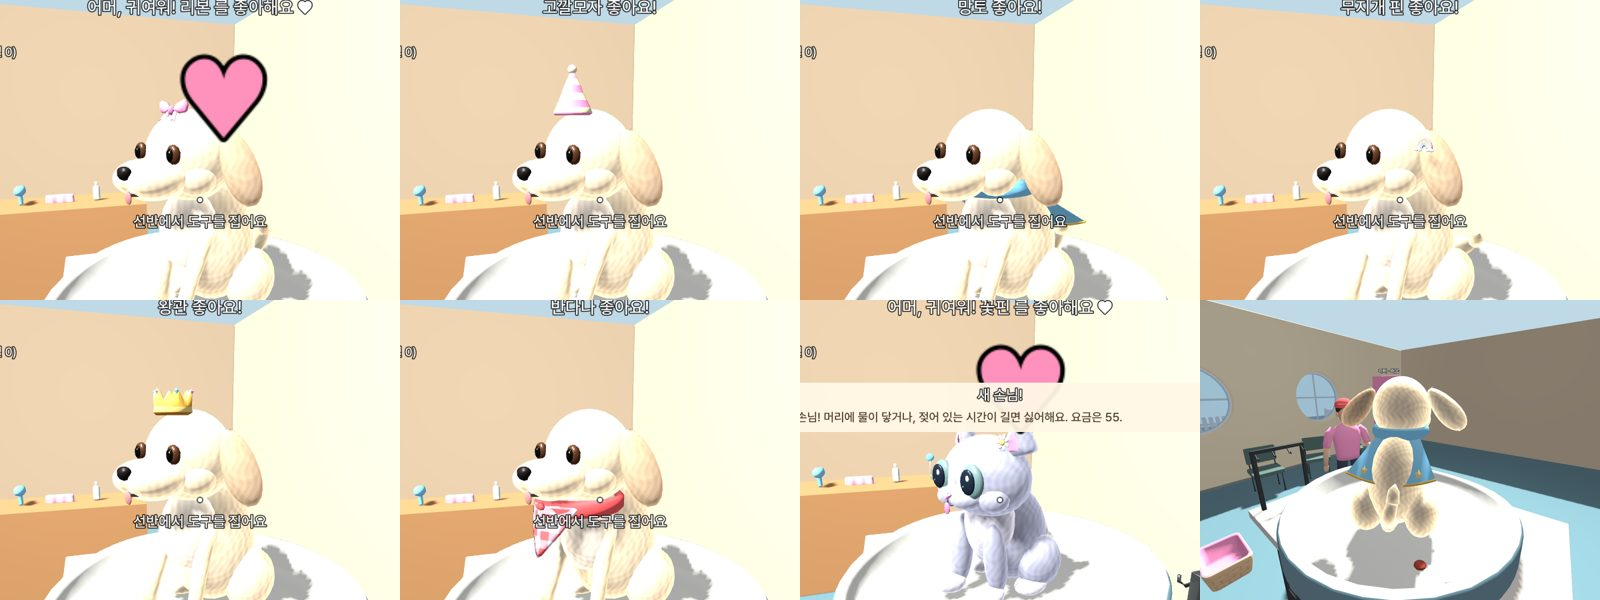
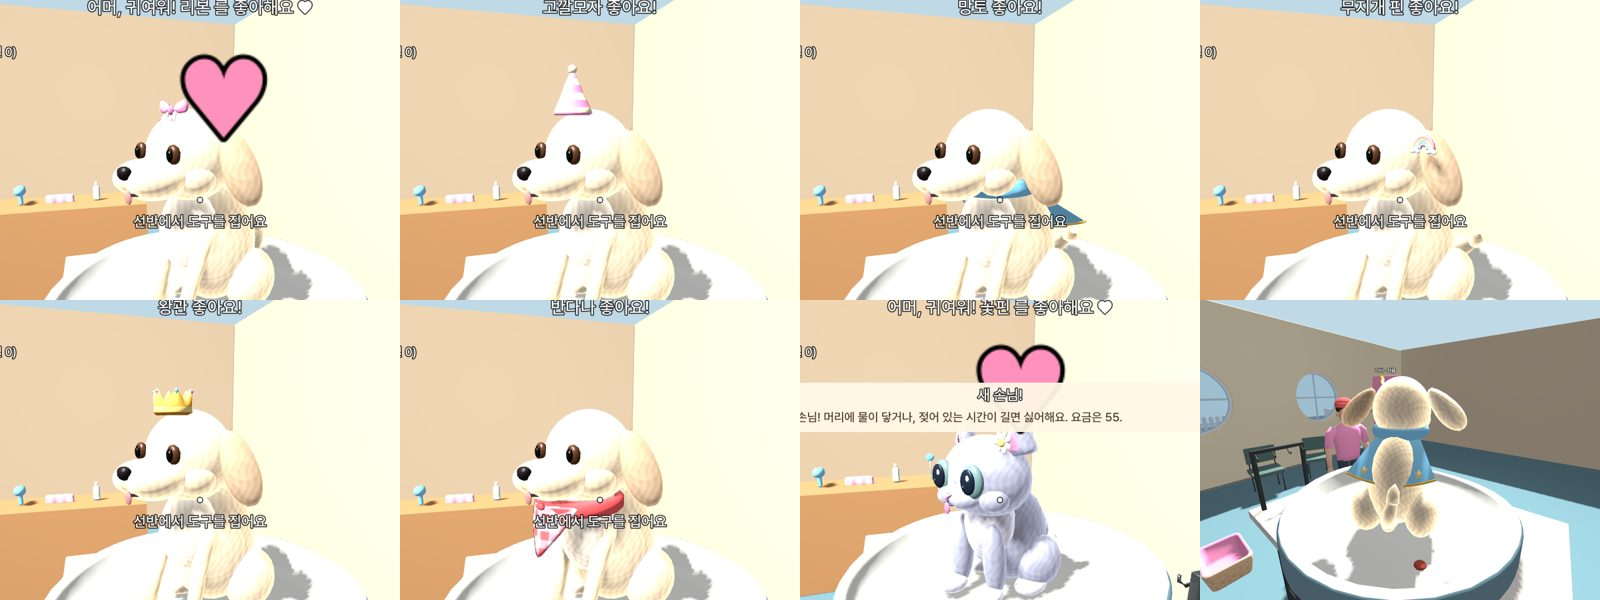
[개발] 꽃핀 3개 1.4배 (대표 결정, 귀를 안 가림)
Claude-Session: https://claude.ai/code/session_011AhoxvjuUAeZ5SvtvgroTK

diff --git a/docs/status/dev.md b/docs/status/dev.md
@@ -3,7 +3,7 @@
 **지금 하는 일**: 액세서리 그래픽 연결 PR (`dev/v4-accessory-art`, #146 뒤).
 
 **끝낸 일**:
-- 액세서리 그래픽 연결 (#146, `docs/art/ACCESSORY_DELIVERY.md`): GLB 13개를 `assets/models/accessory/` 로 (임시 도형 자동 교체). 머리 장식 자리는 그래픽팀이 실제 모형 털 겉면에서 잰 값 (강아지 (0, 0.584, 0.097) · 고양이 (0, 0.456, 0.0806)) 을 씀 (전엔 머리 메시 상자 꼭대기라 강아지는 파묻히고 고양이는 뜸). 목 장식은 실제 모형에서 1.0 배면 고리·망토가 털 속에 묻혀서 1.25 배, 망토는 조금 뒤·위로 → 등 위에 얹히고 얼굴·다리는 안 가림. 꽃핀(귀 옆)·바구니 크기는 그대로 맞음. 스크린샷 `docs/dev/screenshots/v4_acc_worn.jpg`·`v4_acc_art_checks.jpg`
+- 액세서리 그래픽 연결 (#146, `docs/art/ACCESSORY_DELIVERY.md`): GLB 13개를 `assets/models/accessory/` 로 (임시 도형 자동 교체). 머리 장식 자리는 그래픽팀이 실제 모형 털 겉면에서 잰 값 (강아지 (0, 0.584, 0.097) · 고양이 (0, 0.456, 0.0806)) 을 씀 (전엔 머리 메시 상자 꼭대기라 강아지는 파묻히고 고양이는 뜸). 목 장식은 실제 모형에서 1.0 배면 고리·망토가 털 속에 묻혀서 1.25 배, 망토는 조금 뒤·위로 → 등 위에 얹히고 얼굴·다리는 안 가림. 꽃핀(귀 옆)은 작아 보여 1.4 배 (대표 결정, 귀를 안 가림), 바구니 크기는 그대로 맞음. 스크린샷 `docs/dev/screenshots/v4_acc_worn.jpg`·`v4_acc_art_checks.jpg`
 - V4 처음 하는 사람 안내 (기획 LAUNCH_PREP 2장 표 12곳, `scripts/v4/fp_guide.gd`): 그 일을 처음 할 때 한 번만, 화면 아래 가운데 작은 띠 (그림 + 한 줄, 5초, 하던 일 안 멈춤) + 필요하면 대상 위 ▼ (통통, 그 일을 하면 사라짐).
   - 1일차 시작 "걸어서 손님을 맞아요" · 첫 손님 (손님 위 ▼) · 맡기면 선반 샤워기 (▼, 집으면 사라짐) · 단계마다 손동작 한 줄 (적시기·거품·헹굼·수건·드라이·빗질·미용, 그 도구를 집을 때) · 다 씻으면 주인 위 ▼ "주인에게 돌려줘요" · 첫 사진 "사진첩에 붙었어요!" · 첫 정산 "번 돈으로 도구를 키워요" + [도구 가게] 탭 반짝 · 다음 아침 팻말 ▼ · 첫 택배 상자 ▼.
   - 이미 있던 것: 좋아하는 곳 찾기 (1일차), 새 고양이·성격 카드, 샴푸 3마리분 알림, 아침 카드 (2일차부터 새로 열리는 것).
